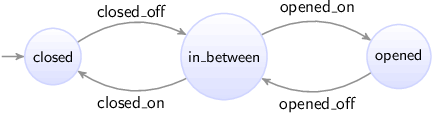
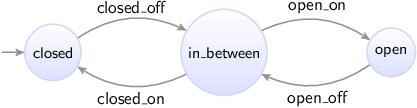
#325 Processed more review comments for SBE documentation.

diff --git a/cif/org.eclipse.escet.cif.documentation/images/synthesis-based-engineering/approaches/plant_gate_sensors.png.tex b/cif/org.eclipse.escet.cif.documentation/images/synthesis-based-engineering/approaches/plant_gate_sensors.png.tex
@@ -33,13 +33,13 @@
 
   \node[state, initial]   (c)                  {closed};
   \node[state]            (b) [right=2cm of c] {in\_between};
-  \node[state]            (o) [right=2cm of b] {opened};
+  \node[state]            (o) [right=2cm of b] {open};
 
   \path[every node/.style={font=\sffamily\normalsize,outer sep=0pt}]
     (c) edge[bend left] node[above] {closed\_off} (b)
     (b) edge[bend left] node[below] {closed\_on}  (c)
-    (b) edge[bend left] node[above] {opened\_on}  (o)
-    (o) edge[bend left] node[below] {opened\_off} (b)
+    (b) edge[bend left] node[above] {open\_on}    (o)
+    (o) edge[bend left] node[below] {open\_off}   (b)
   ;
 
 \end{tikzpicture}
